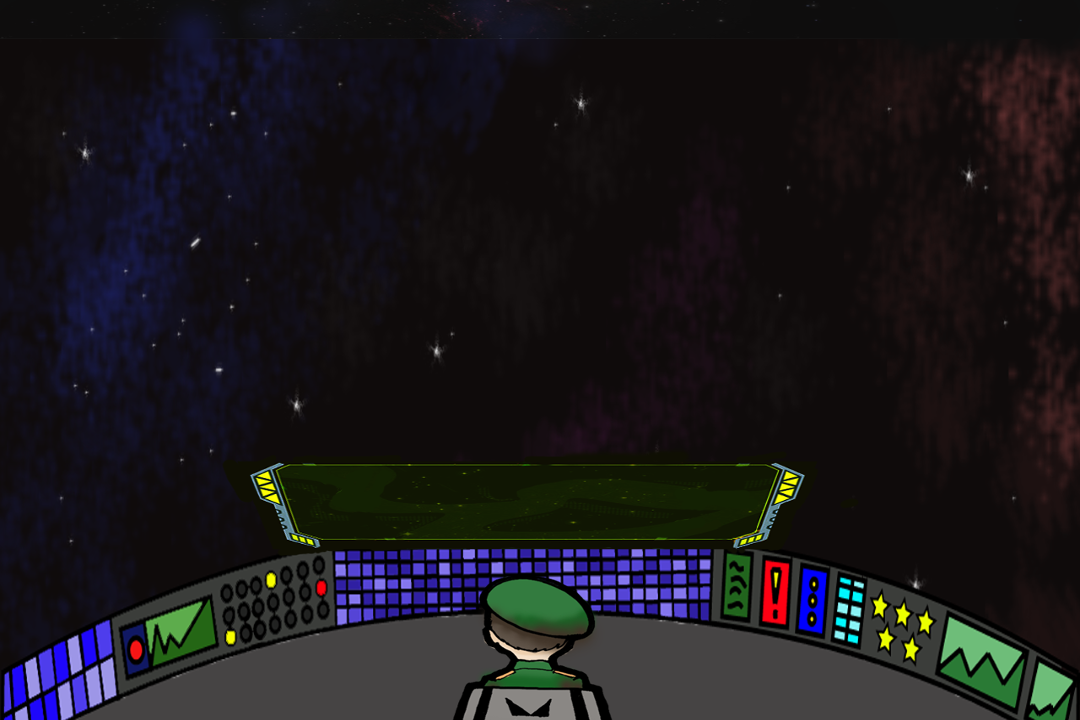
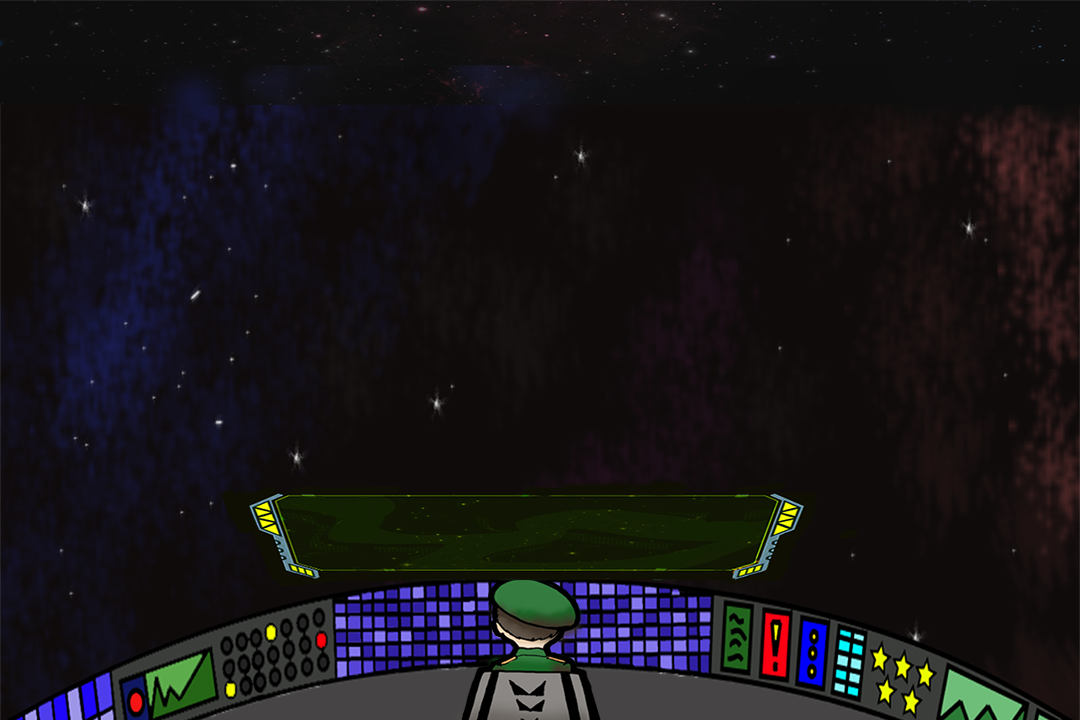
fix bug and update story

diff --git a/main_game.py b/main_game.py
@@ -41,6 +41,7 @@ damscreen = pygame.image.load("Pics/BG_main/red.png")
 siren = pygame.image.load("Pics/BG_main/siren.png")
 siren_light = pygame.image.load("Pics/BG_main/sirenlight.png")
 #========================
+bgsound = False
 #=========COLOR==============
 black = (0, 0, 0)
 white = (255, 255, 255)
@@ -78,8 +79,8 @@ def prepare():
             GameDisplay.blit(keyboard4, (0, 0))
             if m >= 4:
                 m = 0
-        GameDisplay.blit(siren, (15, 600)) 
-        GameDisplay.blit(siren, (1005, 580))   
+        GameDisplay.blit(siren, (235, 455)) 
+        GameDisplay.blit(siren, (760, 455))   
         GameDisplay.blit(heart, (15, 30))
         message_dis("X "+str(life), 20, (105, 50), white)
         message_dis(str(score), 40, (1005, 55), white)
@@ -100,12 +101,12 @@ def prepare():
                     key_sound2.play()
                     k = 1
                 if s == 0:
-                    GameDisplay.blit(siren_light, (15,600))
-                    GameDisplay.blit(siren_light, (1005,580))
+                    GameDisplay.blit(siren_light, (235,455))
+                    GameDisplay.blit(siren_light, (760,455))
                     s = 1
                 elif s == 1:
-                    GameDisplay.blit(siren, (15, 600)) 
-                    GameDisplay.blit(siren, (1005, 580))   
+                    GameDisplay.blit(siren, (235, 455)) 
+                    GameDisplay.blit(siren, (760, 455))   
                     s = 0  
                 if event.key == pygame.K_SPACE or event.key == 13:
                     key_sound3.play()
@@ -363,7 +364,7 @@ def meteor(x, y, n):
 def mini_game_mode():
     list_word = word_list()
     #A mash up of some graphics from the Glitch assets by Tiny Speck.
-    global pause
+    global pause, bgsound
     bgsound = pygame.mixer.Sound('sounds/soundbg.wav')
     bgsound.set_volume(.2)
     perfect = pygame.mixer.Sound('sounds/ding.wav')
@@ -567,19 +568,19 @@ def mini_game_mode():
             for z in output:
                 z = int(z) - 97
                 show_input += set_AtoZ[z]
-        if y1 > 460 or y2 > 430 or y3 > 410 or y4 > 430 or y5 > 460:
+        if y1 > 490 or y2 > 460 or y3 > 440 or y4 > 460 or y5 > 490:
             alarm_check = True
             if s == 0:
-                GameDisplay.blit(siren_light, (15,600))
-                GameDisplay.blit(siren_light, (1005,580))
+                GameDisplay.blit(siren_light, (235,455))
+                GameDisplay.blit(siren_light, (760, 455))
                 s = 1
             elif s == 1:
-                GameDisplay.blit(siren, (15, 600)) 
-                GameDisplay.blit(siren, (1005, 580))   
+                GameDisplay.blit(siren, (235, 455)) 
+                GameDisplay.blit(siren, (760,455))   
                 s = 0  
         else:
-            GameDisplay.blit(siren, (15, 600))
-            GameDisplay.blit(siren, (1005, 580))   
+            GameDisplay.blit(siren, (235, 455))
+            GameDisplay.blit(siren, (760, 455))   
             alarm_check = False
             a = True
         if alarm_check and a:
@@ -588,7 +589,7 @@ def mini_game_mode():
         if a:
             alarm.fadeout(500)
             a = True
-        if y1 > 600:
+        if y1 > 650:
             damage = True
             word1 = ""
             life -= 1
@@ -596,7 +597,7 @@ def mini_game_mode():
             y1 = 0
             speed1 = 0
             speed1 = random.randrange(speedmin, speedmax)
-        if y2 > 550:
+        if y2 > 590:
             damage = True
             word2 = ""
             life -= 1
@@ -604,7 +605,7 @@ def mini_game_mode():
             y2 = 0
             speed2 = 0
             speed2 = random.randrange(speedmin, speedmax)
-        if y3 > 530:
+        if y3 > 560:
             damage = True
             word3 = ""
             life -= 1
@@ -612,7 +613,7 @@ def mini_game_mode():
             y3 = 0
             speed3 = 0
             speed3 = random.randrange(speedmin, speedmax)
-        if y4 > 550:
+        if y4 > 590:
             damage = True
             word4 = ""
             life -= 1
@@ -620,7 +621,7 @@ def mini_game_mode():
             y4 = 0
             speed4 = 0
             speed4 = random.randrange(speedmin, speedmax)
-        if y5 > 600:
+        if y5 > 650:
             damage = True
             word5 = ""
             life -= 1
@@ -675,20 +676,53 @@ def mini_game_mode():
 #================================================
 
 def game_intro():
+    global bgsound
+    if not bgsound:
+        story_list = []
+        for i in range(1, 5):
+            if i == 1:
+                j = 3
+            if i == 2:
+                j = 3
+            if i == 3:
+                j = 2
+            if i == 4:
+                j = 2
+            for x in range(1, j+1):
+                story_list += [pygame.image.load("Pics/BG_intro/Story/"+str(i)+"/"+str(i)+"-"+str(x)+".png")]
+        story = story_list.pop(0)
+    else:
+        story = False
+
     bg = pygame.image.load("Pics/BG_intro/mainmenu-1.jpg")
     pygame.init()
     pygame.display.set_caption("METEOTYPE")  # title ba
+    click_check = False
     while True:
+        click = pygame.mouse.get_pressed()
         for event in pygame.event.get():
+            if bgsound:
+                pygame.mixer.fadeout(1500)
             if event.type == pygame.QUIT:
                 pygame.quit()
                 quit()
-        GameDisplay.blit(bg,(0,0))
-        botton_im(start_light, start, 840, 245, 300, 250, "mini_game")
-        botton_im(howto_light, howto, 830, 490, 300, 300, "howtoplay")
-        botton_im(highscore_light, highscore, 120, 245, 200, 200, "high_score")
-        botton_im(credit_light, credit, 105, 445, 200, 200, "credit")
-        botton_im(exit_light, exit, 500, 640, 200, 200, "quit")
+            if not bgsound:
+                if event.type == pygame.KEYDOWN :
+                    try:
+                        story = story_list.pop(0)
+                    except:
+                        story = False
+
+        if story:
+            GameDisplay.blit(story, (0,0))
+            message_dis("PRESS any key to continue", 20, (540, 650), red)
+        else:
+            GameDisplay.blit(bg,(0,0))
+            botton_im(start_light, start, 840, 245, 300, 250, "mini_game")
+            botton_im(howto_light, howto, 830, 490, 300, 300, "howtoplay")
+            botton_im(highscore_light, highscore, 120, 245, 200, 200, "high_score")
+            botton_im(credit_light, credit, 105, 445, 200, 200, "credit")
+            botton_im(exit_light, exit, 500, 640, 200, 200, "quit")
         pygame.display.update()
         clock.tick(30)
 game_intro()
